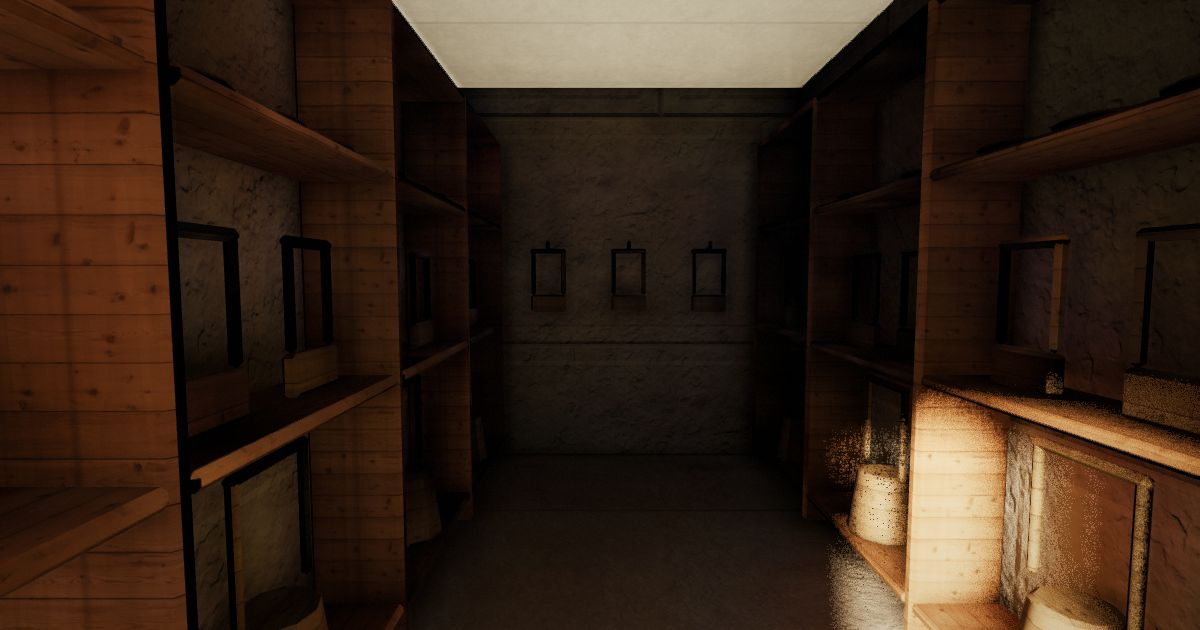
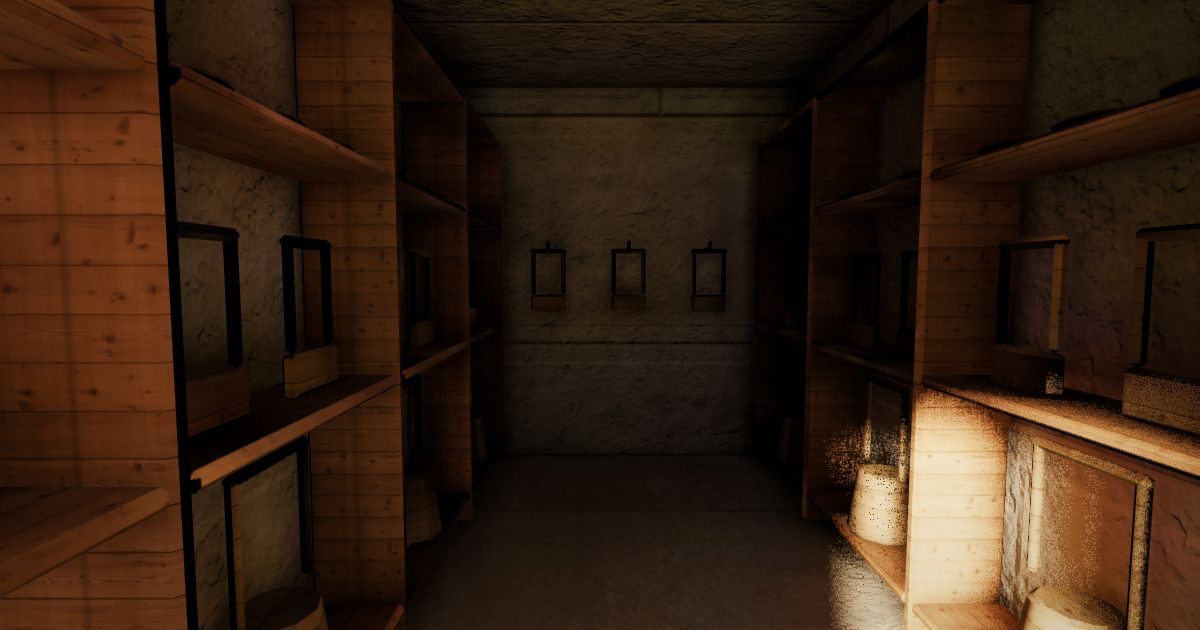
Les quatre salles sous l'Ezrat Israël — les deux des Léviim, HaKelim et 'Hashaïm — avaient un plafond blanc, uni comme en plein jour : c'est le dessous du podium, rangé dans _non_classe, dont la carte de lumière était cuite (lumiere/_non_classe.webp) mais jamais posée. La visite prenait ses cartes p

diff --git a/visite/visite.js b/visite/visite.js
@@ -636,9 +636,16 @@ function conceptDe(objet) {
   return undefined;
 }
 
+// Le groupe que l'export a cuit (ses extras) : un concept, ou `_non_classe`, dont les podiums plafonnent les salles sous l'Ezrat Israël.
+function groupeCuitDe(objet) {
+  for (let n = objet; n; n = n.parent) if (n.userData.concept) return n.userData.concept;
+  return undefined;
+}
+
 const maillages = [];
 gltf.scene.traverse((o) => {
   if (!o.isMesh) return;
+  o.userData.groupeCuit = groupeCuitDe(o);
   o.userData.concept = conceptDe(o);
   maillages.push(o);
 });
@@ -658,8 +665,8 @@ gltf.scene.traverse((o) => {
   o.castShadow = true;
   o.receiveShadow = true;
   if (!brut) {
-    const occlusion = occlusions.get(o.userData.concept);
-    const lumiere = lumieres.get(o.userData.concept);
+    const occlusion = occlusions.get(o.userData.groupeCuit);
+    const lumiere = lumieres.get(o.userData.groupeCuit);
     // Une matière est partagée entre concepts ; ses cartes cuites et son reflet ne le sont pas.
     if (occlusion || lumiere || sousSonde.has(o)) o.material = o.material.clone();
     if (occlusion) o.material.aoMap = occlusion;
